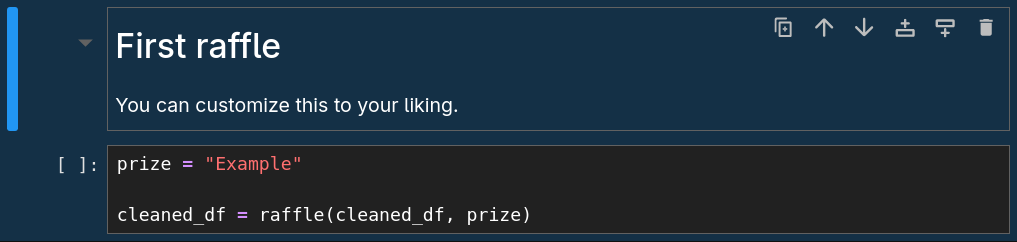
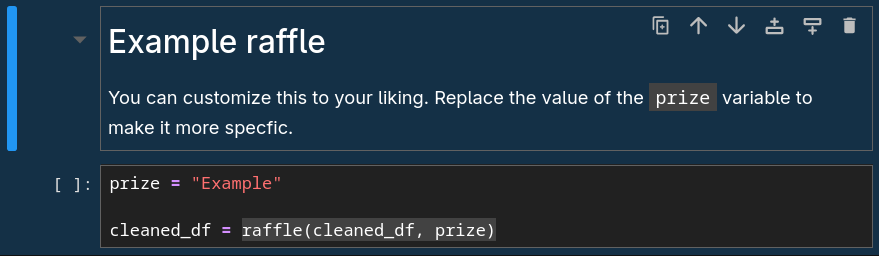
Improved the raffle function and updated the README.md

Changed region(s): [[0.0614, 0.0, 1.0, 0.5496], [0.0307, 0.5785, 1.0, 0.9835], [0.0, 0.0289, 0.0307, 0.6074]]

diff --git a/README.md b/README.md
@@ -1,6 +1,7 @@
 # pyraffle
 
-A simple raffle notebook. This is initially made for the raffle in the Software Freedom Day Bukidnon 2025. This was made compatible with Luma guest list.
+A simple raffle notebook. This was initially made for the raffle in the Software Freedom
+Day Bukidnon 2025. This was made compatible with the [Luma](https://luma.com/) guest list.
 
 ## Setup
 1. Clone this repository.
@@ -16,11 +17,21 @@ A simple raffle notebook. This is initially made for the raffle in the Software 
 
 The two cells in the image shown above is where the raffle happens. To add more raffles,
 you can copy this two cells and paste it below. Modify the above markdown cell according
-to your liking. Replace the value inside the `prize` variable if you want the prize to be specific. Make the value of `prize` blank if you want to disable it.
+to your liking. Replace the value inside the `prize` variable if you want the prize to be
+specific. Make the value of `prize` blank if you want to disable it.
 
 An example of a raffle result is shown below:
 
 ![Raffle result](img/raffle-result.png)
+
+## Note
+- Aside from the default fields (like `name`, `email`, and `checked_in_at`) in Luma, a custom
+question named `Status` should be added. Here are the details of the `Status` custom question:
+    - Question Type: Options
+    - Question: Status
+    - Options: Professional, Student
+    - Selection Type: Single
+    - Required: Yes
 
 ## License
 Code released under the [MIT License](LICENSE)
